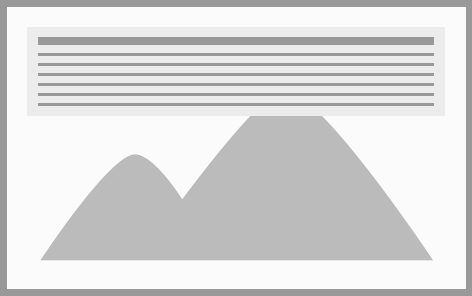
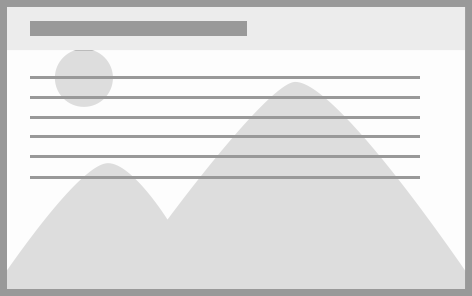
issue #KOBAONE-173 by martinyde: Changed pictograms for new templates

diff --git a/web/css/styles.css b/web/css/styles.css
@@ -3287,18 +3287,20 @@ html.is-locked body {
  */
 /* Styles
    ========================================================================== */
-.admin-sharing--content {
-  position: relative; }
-.admin-sharing--list {
-  display: block;
-  margin-bottom: 1em; }
-.admin-sharing--button {
-  display: block;
-  margin: 0 auto 1em; }
-.admin-sharing--spinner {
-  bottom: .5em;
-  right: 3em;
-  top: auto; }
+.admin-sharing {
+  padding-top: 2em; }
+  .admin-sharing--content {
+    position: relative; }
+  .admin-sharing--list {
+    display: block;
+    margin-bottom: 1em; }
+  .admin-sharing--button {
+    display: block;
+    margin: 0 auto 1em; }
+  .admin-sharing--spinner {
+    bottom: .5em;
+    right: 3em;
+    top: auto; }
 
 /**
  *

diff --git a/web/app/shared/elements/checklist/checklist.html b/web/app/shared/elements/checklist/checklist.html
@@ -1,8 +1,6 @@
-<div class="create-channel--screen" data-ng-repeat="el in elements" data-ng-click="toggleElement(el)">
-  <div class="create-channel--screen-link">
-    <div class="create-channel--screen-element">
-      <div class="create-channel--screen-element-check" data-ng-class="{'is-selected' : elementSelected(el)}"></div>
-      <div class="create-channel--screen-element-title">{{el.name}}</div>
-    </div>
+<div class="list" data-ng-repeat="el in elements" data-ng-click="toggleElement(el)">
+  <div class="list--element">
+    <div class="list--element-check" data-ng-class="{'is-selected' : elementSelected(el)}"></div>
+    <div class="list--element-title">{{el.name}}</div>
   </div>
 </div>

diff --git a/web/app/shared/elements/slide/editors/event-calendar-editor.html b/web/app/shared/elements/slide/editors/event-calendar-editor.html
@@ -14,6 +14,7 @@
         <h2 class="edit-menu--content-header">Vælg lokale(r)</h2>
         <div class="edit-menu--content-description">Angiv hvilket lokales daglige begivenheder skal vises.</div>
         <div class="edit-menu--event-calendar">
+          <!--@todo add <ik-checklist elements="sharingIndexes" selected="shareDialogChannel.sharing_indexes" identity="'id'"></ik-checklist>-->
           <div class="list">
             <div class="list--element">
               <div class="list--element-check is-selected" data-ng-class="{'is-selected' : elementSelected(el)}"></div>

diff --git a/web/sass/modules/_admin-sharing.scss b/web/sass/modules/_admin-sharing.scss
@@ -9,6 +9,8 @@
    ========================================================================== */
 
 .admin-sharing {
+  padding-top: 2em;
+
   &--content {
     @extend %grid__item;
     @extend %grid-markup-fix;
